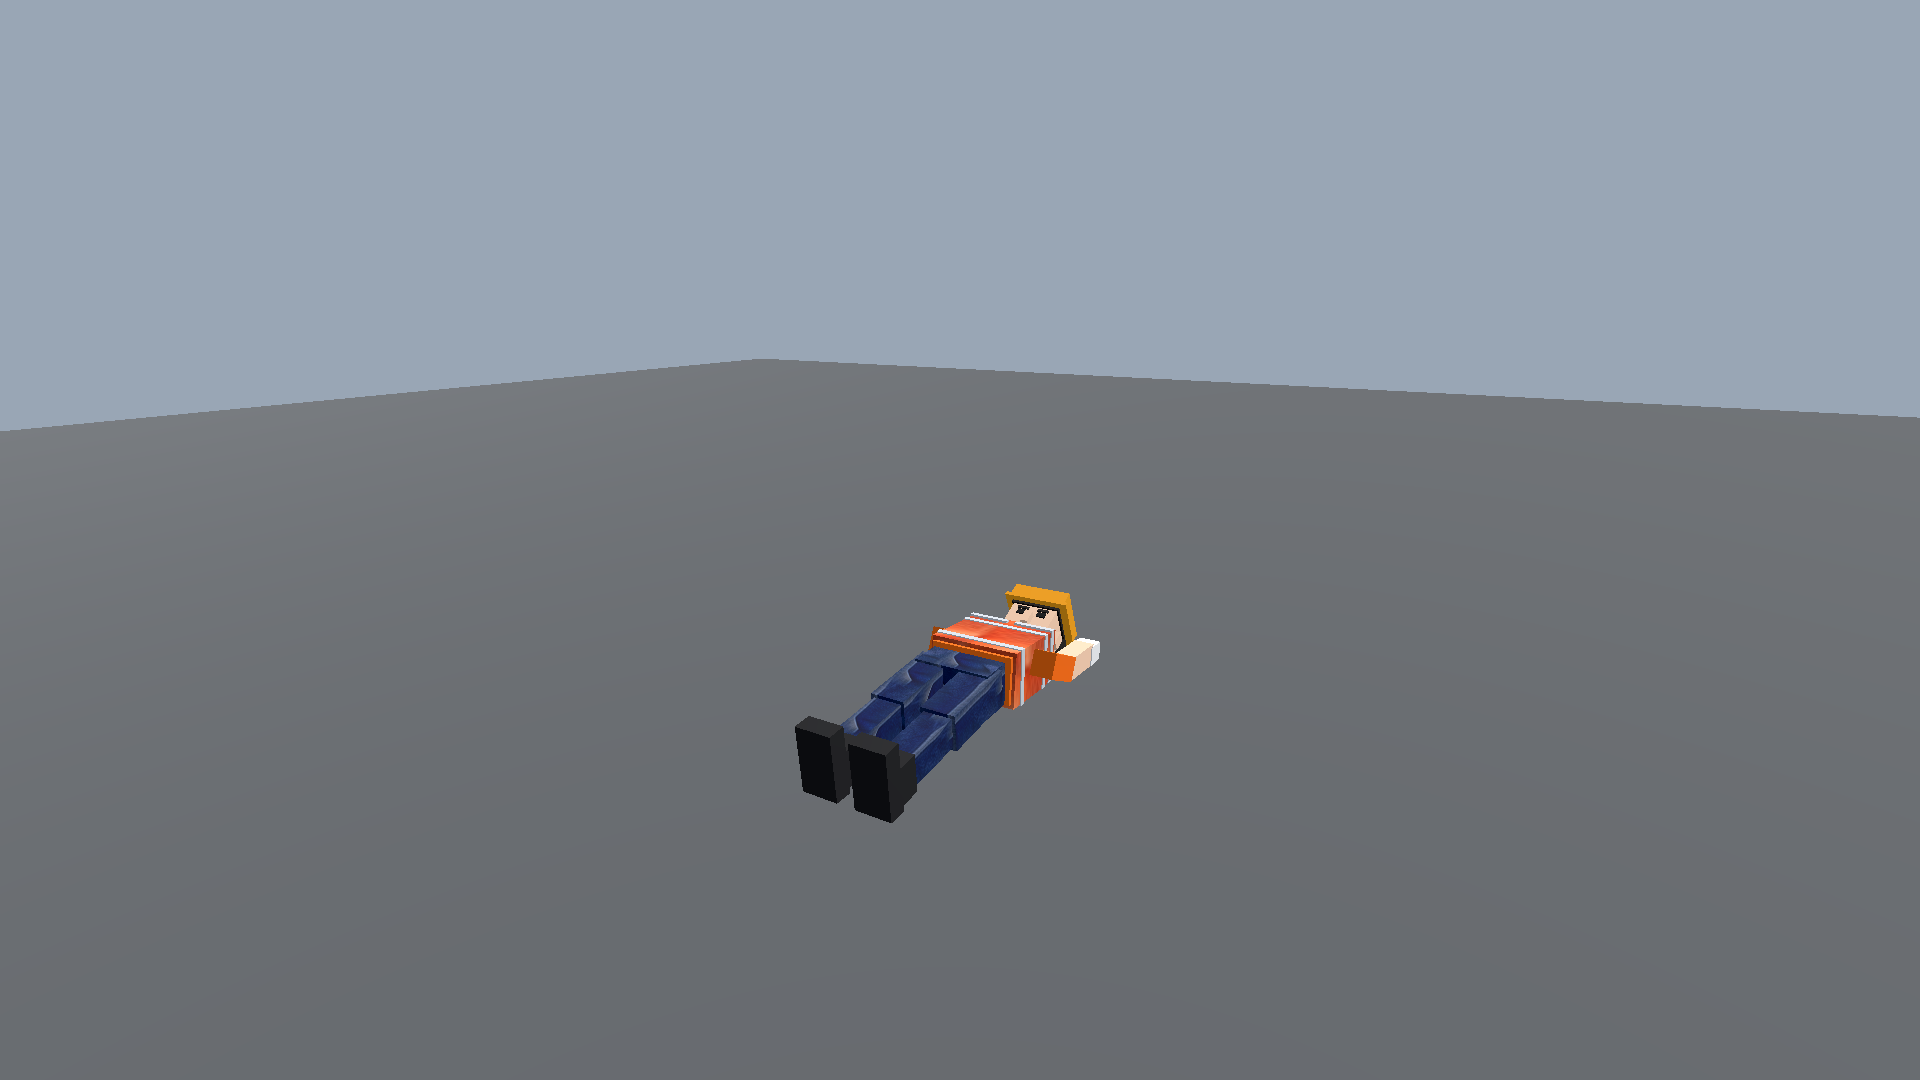
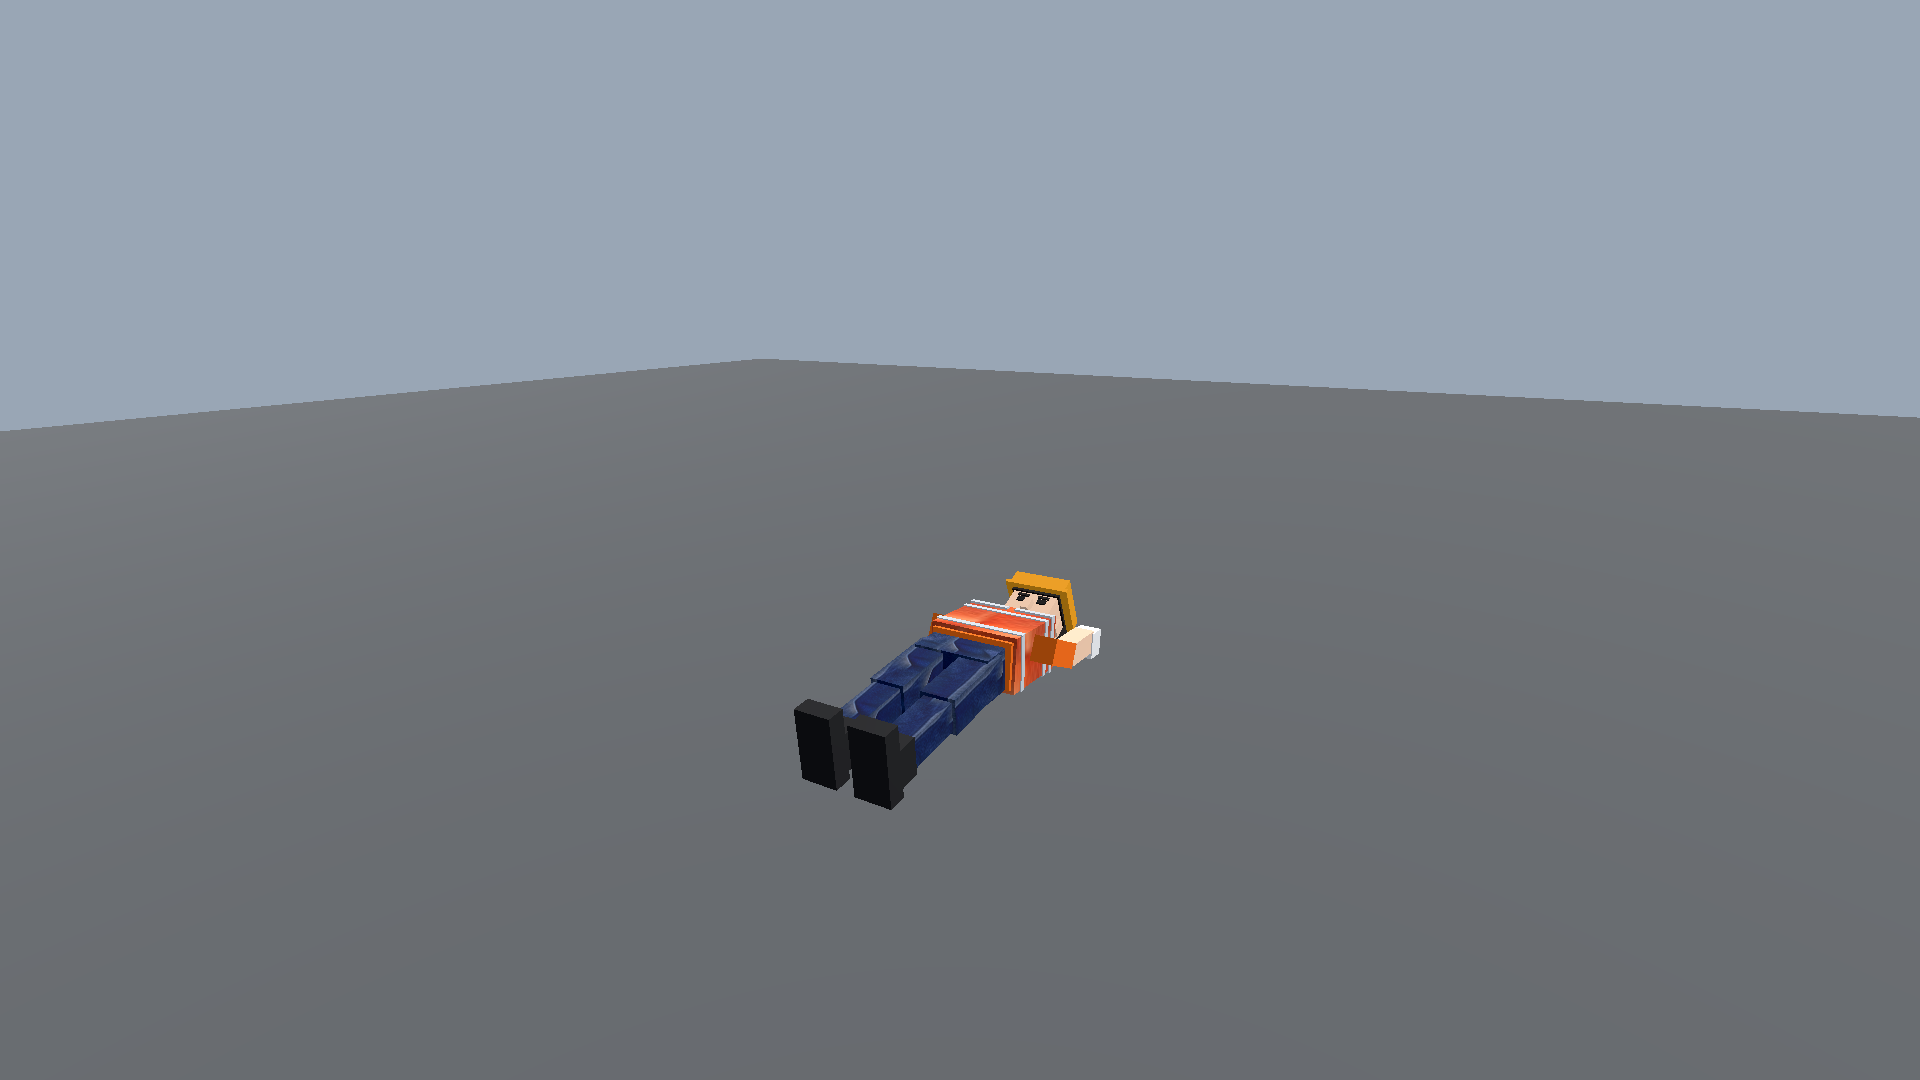
Review round 2: real crouch depth, floor-plane contact, NPC fixes
Adversarial review (3 lenses, 17 agents) confirmed 12 findings on the rig
unification. All fixed, all now guarded:

- MEASURED the poses instead of eyeballing renders (new probe_stance_extents):
  crouch was 1.70 m against a 1.78 m stand — a 4% squat, which is exactly the
  operator's 'crouching does nothing'. Rebuilt from the bone geometry (thigh
  0.20 / shin 0.38): thigh 100 deg, knee -150 deg, hips -0.431, feet counter-
  rotated +50 deg so they stay flat. Now 1.41 m with the soles planted.
- Prone and crouch both sank ~7 cm THROUGH the floor plane (-0.97 vs the
  standing sole -0.90). Both now measure exactly -0.90.
- NPC de-squash would have ERASED every NPC's build sliders: Humanoid.build
  puts height/width/depth_mul on the rig root scale, so six roster NPCs run
  non-1.0 legitimately. Now clears only the Y-only legacy squash shape.
- NPC jump pose was unreachable: _jump_locked cleared on the impulse tick
  (is_on_floor is one tick stale there), so the latch never survived a frame.
  New _jump_airborne gate — this also re-arms the mid-air re-impulse guard.
- Stale _last_anim_state after a rig swap left a crouching player/NPC standing
  (newly reachable BECAUSE the double-body fix made rig replacement real).
- Registered test_humanoid_rig_conformance in tools/regression/run.sh — none
  of these fixes were actually guarded on a harness run before.
- Test hardening: signed-axis jump assertion (a backward tuck used to pass),
[…]

Changed region(s): [[0.4062, 0.5194, 0.5938, 0.7639]]

diff --git a/docs/anim_rig_unification_2026-08-28.md b/docs/anim_rig_unification_2026-08-28.md
@@ -37,10 +37,53 @@ session: "a second player spawned inside of me".
    auto-renames the incoming like-named rig (`@HumanoidBody@N` broke NPC
    per-frame lookups after wardrobe swaps).
 
+## Round 2 — what the adversarial review caught (12 confirmed, 2 refuted)
+
+6. **The crouch was 4% deep.** Measured, not eyeballed: 1.70 m against a 1.78 m
+   stand — the operator's "crouching does nothing" was literally true. The rig's
+   bones are thigh 0.20 m / shin 0.38 m, so the fold is geometry-limited: thigh
+   +100°, knee −150° puts the ankle 0.209 m under the hip instead of 0.58 m, and
+   the hips must drop by exactly that difference to keep the feet planted. Feet
+   counter-rotate +50° so they stay flat instead of tiptoeing. **Now 1.41 m.**
+7. **Ground poses sank through the floor.** Prone (−0.97) and the old crouch
+   (−0.97) both dropped below the standing sole plane (−0.90). Both now measure
+   exactly −0.90. `src/tests/probe_stance_extents.tscn` prints the numbers.
+8. **A blanket `scale = ONE` would have erased every NPC's build.**
+   `Humanoid.build` puts the #126 height/width/depth sliders on the *rig root*
+   scale, so six roster NPCs legitimately run non-1.0 scales (Vincent 1.12 tall,
+   Pascal 0.90/1.15 …). The legacy-squash clear now matches only the Y-only
+   shape (x == z == 1, y < 1) it is meant to undo.
+9. **NPC jump pose was unreachable.** `_jump_locked` was cleared on the *impulse
+   tick*: `is_on_floor()` still reports the previous tick's `move_and_slide`, so
+   the landing branch fired before the body left the ground. New `_jump_airborne`
+   gate gates it. This also silently disabled the mid-air re-impulse guard.
+10. **Stale `_last_anim_state` after a rig swap.** The double-body fix made
+    player rig replacement *real*, which exposed this: the fresh tree starts in
+    "locomotion", the cached state still said "crouch", so the travel guard
+    skipped and a crouching operator stood up. Reset on re-resolve, both
+    PlayerController and NPC.
+11. **The new test wasn't in the harness** (`tools/regression/run.sh`) — added,
+    so all of the above are guarded on every run.
+
+Mutation-verified: restoring the pivot-skip reds 6 checks; reverting the FP
+splitter to HipPivot-only reds the leg-layer check; restoring the shallow crouch
+reds both crouch checks.
+
+**Residual, documented not fixed:** the crouch capsule (player 1.0 m, NPC 1.20 m)
+is shorter than the posed body (1.41 m), so a crouching head pokes above its
+capsule. Changing those heights changes what the operator can crouch under —
+a gameplay-clearance decision, not an animation one.
+
 ## Tools
 
 - `src/tests/shot_humanoid_stances.tscn` — renders every SM state to
   `docs/plant/renders/shot_stance_<state>.png` (phase-aware for walk/run: waits
   for a swing peak so a zero-crossing frame can't fake a statue). Run WINDOWED.
-- `src/tests/test_humanoid_rig_conformance.tscn` — 19 checks, headless;
-  mutation-verified (restoring the pivot-skip goes red on 6 checks).
+- `src/tests/test_humanoid_rig_conformance.tscn` — 25 checks, headless, wired
+  into `tools/regression/run.sh`. Four layers: S1 rig structure, S2 animated
+  poses (incl. measured crouch depth + floor-plane contact, signed-axis jump
+  tuck), S3 rebuild one-body, S4 the REAL `MainWorld._set_body_render_layer_split`
+  run over a real rig.
+- `src/tests/probe_stance_extents.tscn` — prints measured low/high/height per
+  stance. Run it before trusting any pose change; the renders hid a 4% crouch
+  that this caught in one line.
